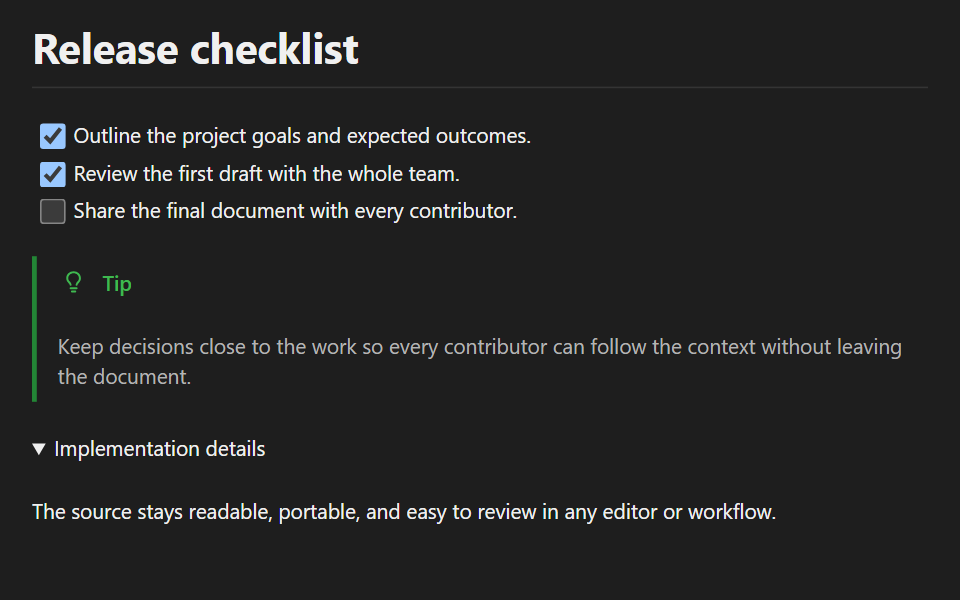
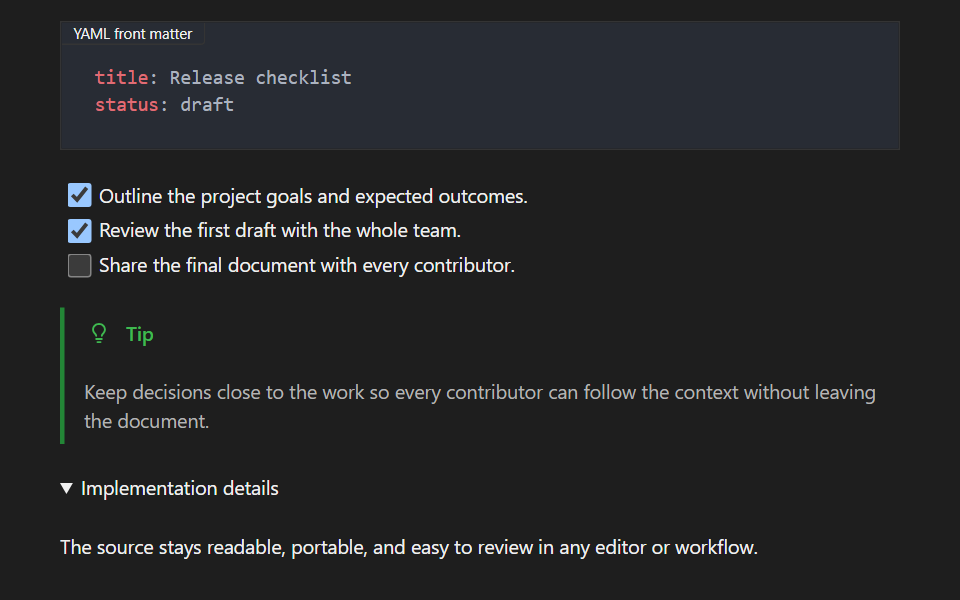
feat(repo): refine the website copy, layout, and screenshots

Changed region(s): [[0.0312, 0.03, 0.9375, 0.87], [0.0625, 0.9, 0.7812, 0.93]]

diff --git a/apps/site/index.html b/apps/site/index.html
@@ -200,9 +200,9 @@
 							while you write.
 						</p>
 						<p>
-							Select linked text to review or update its
-							destination in a focused popover. Every edit remains
-							readable Markdown in the same file.
+							Every style you apply shows up right in the text,
+							just as it will look when rendered. There are no
+							asterisks or brackets to track while you write.
 						</p>
 					</div>
 					<picture class="feature-screenshot">
@@ -226,15 +226,15 @@
 							Diagrams, math, and code.<br />With live previews.
 						</h3>
 						<p>
-							Keep technical details in the same document as your
-							writing. Mermaid diagrams and TeX formulas render
-							inside the visual editor, while code blocks use
-							syntax highlighting for the language you choose.
+							Keep technical content alongside your writing.
+							Mermaid diagrams and TeX formulas render in the
+							editor, and code blocks are highlighted for the
+							language you choose.
 						</p>
 						<p>
-							Select a diagram or formula to edit its source, then
-							click away to see the result on its own. Both remain
-							editable text in your Markdown file.
+							Select a diagram or formula to edit its source. The
+							live preview updates instantly as you type, so you
+							can fine-tune it without leaving the editor.
 						</p>
 					</div>
 					<picture class="feature-screenshot">
@@ -255,12 +255,43 @@
 				<article class="feature-card">
 					<div class="feature-copy">
 						<h3>
+							Beyond basic Markdown.<br />Built for richer
+							documents.
+						</h3>
+						<p>
+							MarkBricks supports task lists with checkboxes,
+							collapsible details, and GitHub-style alerts for
+							notes, tips, warnings, and more.
+						</p>
+						<p>
+							YAML front matter also gets its own editor at the
+							top of the document, so titles, tags, and other
+							metadata are easy to manage.
+						</p>
+					</div>
+					<picture class="feature-screenshot">
+						<source
+							srcset="/features/source-dark.png"
+							media="(prefers-color-scheme: dark)"
+						/>
+						<img
+							src="/features/source-light.png"
+							alt="MarkBricks visual editor with YAML front matter, a three-item task list, a GitHub-style alert, and expanded details."
+							width="960"
+							height="600"
+							loading="lazy"
+							decoding="async"
+						/>
+					</picture>
+				</article>
+				<article class="feature-card">
+					<div class="feature-copy">
+						<h3>
 							From Markdown notes<br />to presentation slides.
 						</h3>
 						<p>
-							Use YAML front matter for document metadata, and add
-							<code>marp: true</code> to turn your Markdown notes
-							into a
+							Add <code>marp: true</code> to the front matter to
+							turn your Markdown notes into a
 							<a
 								href="https://marp.app/"
 								target="_blank"
@@ -268,8 +299,8 @@
 								aria-describedby="new-tab-description"
 								>Marp<span aria-hidden="true">&nbsp;↗</span></a
 							>
-							deck. Build slides with headings, images, code, and
-							equations in the same Markdown file.
+							deck. Build slides from the same headings, images,
+							code, and equations you already use in your notes.
 						</p>
 						<p>
 							Preview and present your deck in the desktop app or
@@ -293,41 +324,6 @@
 						/>
 					</picture>
 				</article>
-				<article class="feature-card">
-					<div class="feature-copy">
-						<h3>
-							Beyond basic Markdown.<br />Built for richer
-							documents.
-						</h3>
-						<p>
-							Write with headings, lists, links, tables, and other
-							familiar Markdown formatting. MarkBricks also
-							supports task lists with checkboxes, collapsible
-							details, and GitHub-style alerts for notes, tips,
-							warnings, and more.
-						</p>
-						<p>
-							Everything stays in a readable Markdown file. Switch
-							between visual blocks and the code editor whenever
-							you want, without locking your content into a
-							proprietary format.
-						</p>
-					</div>
-					<picture class="feature-screenshot">
-						<source
-							srcset="/features/source-dark.png"
-							media="(prefers-color-scheme: dark)"
-						/>
-						<img
-							src="/features/source-light.png"
-							alt="MarkBricks visual editor with a three-item task list, a GitHub-style alert, and expanded details."
-							width="960"
-							height="600"
-							loading="lazy"
-							decoding="async"
-						/>
-					</picture>
-				</article>
 			</section>
 			<section
 				class="download-section"
@@ -336,9 +332,6 @@
 			>
 				<div class="wrap">
 					<h2 id="download-title">Downloads</h2>
-					<p class="download-description">
-						Start writing on your desktop or in VS Code.
-					</p>
 					<div class="download-grid">
 						<div class="download-card">
 							<div class="download-card-heading">

diff --git a/apps/site/src/site.css b/apps/site/src/site.css
@@ -271,7 +271,6 @@ h6,
 	display: grid;
 	grid-template-columns: minmax(0, 0.9fr) minmax(0, 1.1fr);
 	grid-template-areas: "copy image";
-	align-items: center;
 	gap: 64px;
 }
 .feature-card + .feature-card {
@@ -326,12 +325,8 @@ code {
 	background: var(--color-paper);
 }
 .download-section h2 {
-	margin-bottom: 24px;
-	font-size: var(--font-size-fluid-medium);
-}
-.download-description {
 	margin-bottom: 72px;
-	color: var(--color-muted);
+	font-size: var(--font-size-fluid-medium);
 }
 .download-grid {
 	display: grid;
@@ -560,9 +555,6 @@ code {
 		padding-block: 88px 80px;
 	}
 	.download-section h2 {
-		margin-bottom: 32px;
-	}
-	.download-description {
 		margin-bottom: 48px;
 	}
 	.download-grid {
